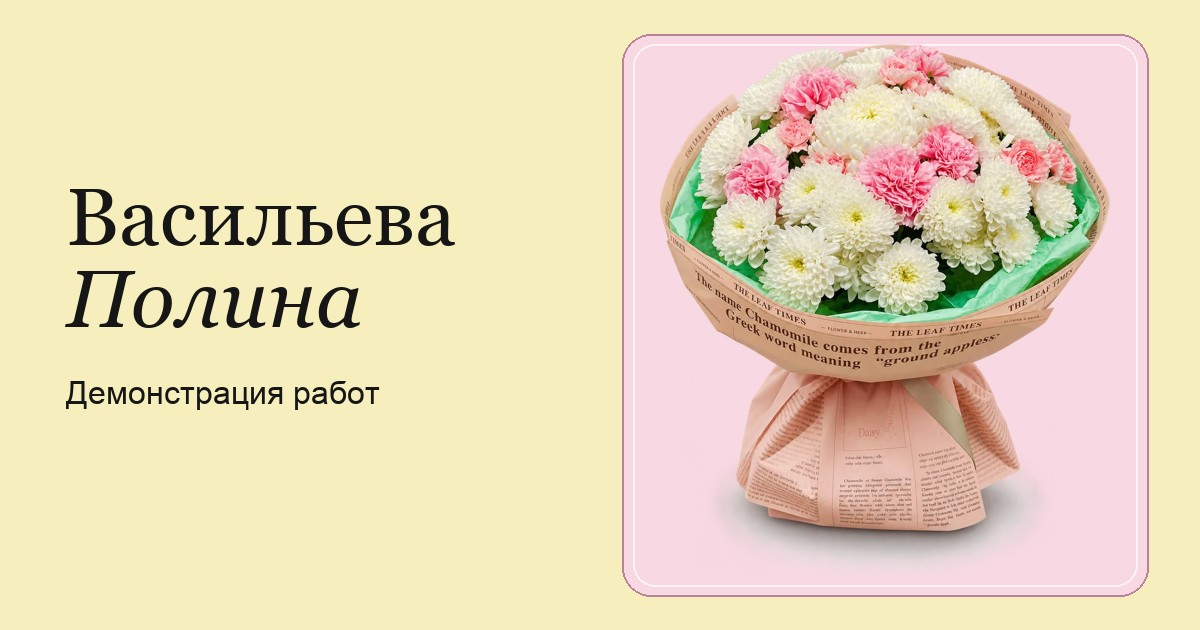
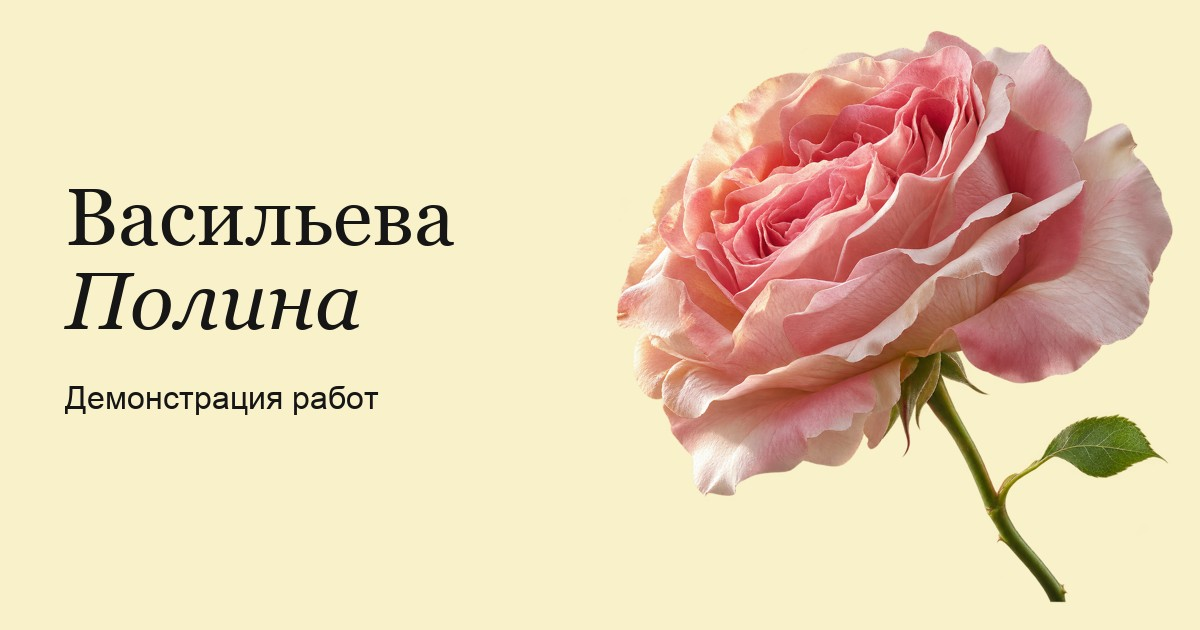
Feature a macro garden rose on the portfolio cover

diff --git a/index.html b/index.html
@@ -29,14 +29,14 @@
       rel="preload"
       as="image"
       fetchpriority="high"
-      href="%BASE_URL%assets/bouquets/01-960.webp"
+      href="%BASE_URL%assets/hero-rose-1120.webp"
       media="(min-width: 801px)"
     />
     <link
       rel="preload"
       as="image"
       fetchpriority="high"
-      href="%BASE_URL%assets/bouquets/01-480.webp"
+      href="%BASE_URL%assets/hero-rose-560.webp"
       media="(max-width: 800px)"
     />
     <title>Васильева Полина: демонстрация работ</title>
@@ -86,13 +86,13 @@
           <picture class="hero-photo"
             ><source
               media="(max-width: 800px)"
-              srcset="%BASE_URL%assets/bouquets/01-480.webp" />
+              srcset="%BASE_URL%assets/hero-rose-560.webp" />
             <img
-              src="%BASE_URL%assets/bouquets/01-960.webp"
-              alt="Пудровый букет с белыми и розовыми цветами в бумажной упаковке"
+              src="%BASE_URL%assets/hero-rose-1120.webp"
+              alt="Розовая садовая роза крупным планом"
               fetchpriority="high"
-              width="960"
-              height="960"
+              width="1120"
+              height="1120"
           /></picture>
         </figure>
       </section>

diff --git a/src/style.css b/src/style.css
@@ -163,9 +163,9 @@ h2 {
   grid-row: 2;
   grid-column: 1;
   justify-self: center;
-  width: min(53vw, 670px);
-  height: clamp(400px, 56svh, 650px);
-  margin-top: clamp(-42px, -3vw, -16px);
+  width: min(62vw, 830px);
+  height: clamp(410px, 59svh, 690px);
+  margin-top: clamp(-58px, -4.3vw, -27px);
   position: relative;
   z-index: 2;
   pointer-events: none;
@@ -611,7 +611,7 @@ a.contact-item:hover .round {
   }
   .hero-visual {
     width: min(88vw, 480px);
-    height: clamp(252px, 43svh, 430px);
+    height: clamp(252px, 44svh, 430px);
     margin-top: -5px;
   }
   .hero-intro {
